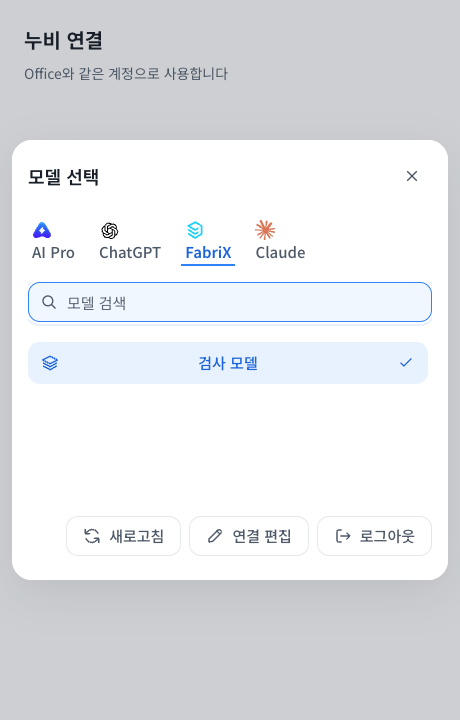
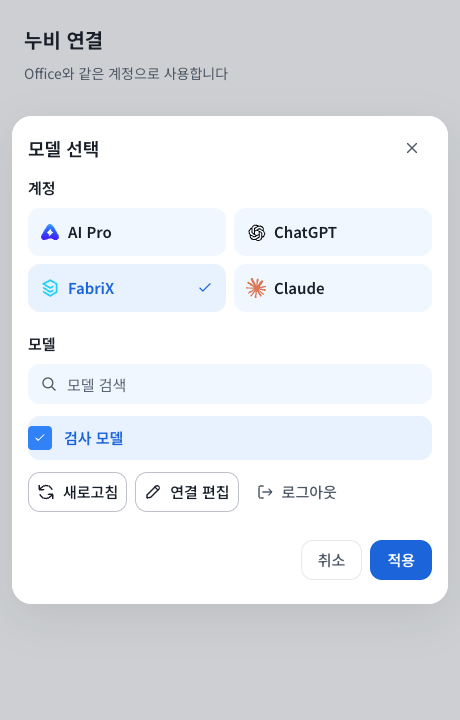
Unify model selection with Nubi workflow forms and fix Windows packaging

diff --git a/packages/office-x/ui/ModelForm.jsx b/packages/office-x/ui/ModelForm.jsx
@@ -1,0 +1,41 @@
+import React,{useEffect,useId,useRef,useState} from 'react';
+import {CxButton,CxInput,CxNotice,DetailPanel,ActionButton,Icon,SearchInput} from '@e2e/cx-design-system';
+import {ProviderIcon} from '../vendor/nubi/extensions/aipro-chat/src/ChatControls.jsx';
+import {ERROR_TEXT} from '../vendor/nubi/extensions/aipro-chat/core.js';
+import './model-form.css';
+
+// Use the Workspace question-form tokens and deferred single-choice pattern.
+// Browsing a provider or model never changes the active conversation model.
+export function ModelForm({data,providerLabels,disabled,loading,onSelect,onRefresh,onLogin,onLogout,onCancelLogin,onClose}) {
+ const [provider,setProvider]=useState(data.activeProvider),[choice,setChoice]=useState(''),[query,setQuery]=useState(''),[saving,setSaving]=useState(false),[error,setError]=useState('');
+ const id=useId(),rows=useRef(null),request=useRef(false),refresh=useRef(onRefresh),refreshed=useRef(null);refresh.current=onRefresh;
+ const connection=data.connections?.[provider]||{},connected=connection.present&&!connection.expired&&!connection.rejected;
+ const current=provider===data.activeProvider,pending=data.pending?.provider===provider;
+ const catalog=data.catalogs?.[provider]||(current?data.catalog:null),models=catalog?.models||[];
+ const selected=choice||data.selectedModels?.[provider]||(current?data.settings.modelId:'');
+ const valid=connected&&models.some(model=>model.name===selected),blocked=saving||disabled||!!data.pending;
+ const visible=models.filter(model=>`${model.displayName} ${model.name}`.toLocaleLowerCase().includes(query.trim().toLocaleLowerCase()));
+ useEffect(()=>{if(provider!=='aipro'||!connected||blocked)return;const key=`${provider}:${connection.receivedAt}`;if(refreshed.current===key)return;refreshed.current=key;Promise.resolve(refresh.current?.({provider,silent:true})).catch(()=>{});},[provider,connected,connection.receivedAt,blocked]);
+ async function perform(work){if(request.current)return;request.current=true;setSaving(true);setError('');try{return await work();}catch(cause){setError(ERROR_TEXT[cause?.message]||'변경하지 못했습니다. 연결을 확인하고 다시 시도해주세요.');return false;}finally{request.current=false;setSaving(false);}}
+ function browse(next){if(blocked)return;setProvider(next);setChoice('');setQuery('');setError('');}
+ function keyboard(event){if(!['ArrowDown','ArrowUp','ArrowRight','ArrowLeft','Home','End'].includes(event.key))return;const group=event.currentTarget,buttons=[...group.querySelectorAll('[role="radio"]:not(:disabled)')],index=buttons.indexOf(document.activeElement);if(index<0||!buttons.length)return;event.preventDefault();const next=event.key==='Home'?0:event.key==='End'?buttons.length-1:(index+(['ArrowDown','ArrowRight'].includes(event.key)?1:-1)+buttons.length)%buttons.length;buttons[next].focus();buttons[next].click();}
+ const problem=error||(!pending&&data.report?.provider===provider&&data.report.error!=='login_closed'?ERROR_TEXT[data.report.error]:'')||catalog?.errorMessage;
+ const footer=<><CxButton disabled={saving} onClick={onClose}>취소</CxButton><CxButton variant="primary" busy={saving} disabled={blocked||!valid} onClick={()=>perform(async()=>{if(await onSelect(selected,provider))onClose();else setError('모델을 적용하지 못했습니다. 다시 시도해주세요.');})}>적용</CxButton></>;
+ return <DetailPanel title="모델 선택" className="deck-dialog nubi-decision-dialog nubi-model-form" variant="modal" hideHelp busy={saving} initialFocus='[role="radio"][aria-checked="true"]' onClose={onClose} footer={footer}>
+  <div className="nubi-question-form model-form-fields">
+   {problem&&<CxNotice tone="danger">{problem}</CxNotice>}
+   <fieldset className="model-form-field"><legend>계정</legend><div className="model-form-providers" role="radiogroup" aria-label="모델 제공자" onKeyDown={keyboard}>
+    {Object.entries(providerLabels).map(([key,label])=><CxButton key={key} className="model-form-provider" role="radio" aria-label={label} aria-checked={provider===key} tabIndex={provider===key?0:-1} disabled={blocked} onClick={()=>browse(key)}><ProviderIcon provider={key}/><strong>{label}</strong><Icon name={provider===key?'check':'chevronRight'} size={16}/></CxButton>)}
+   </div></fieldset>
+   <fieldset className="model-form-field"><legend>모델</legend>
+    {pending?<div className="model-form-status" role="status"><span className="status-spinner" aria-hidden="true"/>{data.pending.phase==='exchanging'?'인증 확인 중':'로그인 대기 중'}<CxButton onClick={()=>Promise.resolve(onCancelLogin()).catch(()=>{})}>로그인 취소</CxButton></div>:!connected?<div className="model-form-status"><span>{connection.expired||connection.rejected?'다시 연결해주세요.':`${providerLabels[provider]} 계정을 연결하세요.`}</span><ActionButton action="login" label="연결" disabled={blocked} onClick={()=>perform(()=>onLogin(provider))}/></div>:<>
+     <SearchInput><CxInput id={`${id}-search`} aria-label="모델 검색" placeholder="모델 검색" value={query} onChange={e=>setQuery(e.target.value)} onKeyDown={e=>{if(e.key==='ArrowDown'){e.preventDefault();rows.current?.querySelector('[role="radio"]')?.focus();}}}/></SearchInput>
+     <div className="question-card question-card--compact model-form-models"><div className="question-options" role="radiogroup" aria-label="사용 가능한 모델" ref={rows} onKeyDown={keyboard}>
+      {visible.map((model,index)=><CxButton key={model.name} className="question-option model-form-option" role="radio" aria-label={model.displayName} aria-checked={model.name===selected} tabIndex={model.name===selected||(!visible.some(m=>m.name===selected)&&index===0)?0:-1} disabled={blocked} title={model.name} onClick={()=>setChoice(model.name)}><span className="question-option-index" aria-hidden="true">{model.name===selected?<Icon name="check" size={14}/>:index+1}</span><span className="question-option-copy"><strong>{model.displayName}</strong>{model.contextLength>0&&<span>문맥 {Math.round(model.contextLength/1024).toLocaleString()}K</span>}</span></CxButton>)}
+     </div>{!visible.length&&<p className="model-form-empty" role="status">{loading?'모델 불러오는 중':query.trim()?'검색 결과가 없습니다.':'목록을 다시 불러오세요.'}</p>}</div>
+     <div className="model-form-account-actions"><ActionButton action="refresh" iconOnly={false} label="새로고침" aria-label="모델 목록 새로고침" busy={loading} disabled={blocked||loading} onClick={()=>perform(()=>onRefresh({provider}))}/>{provider==='fabrix'&&<ActionButton action="edit" iconOnly={false} label="연결 편집" disabled={blocked} onClick={()=>perform(()=>onLogin(provider))}/>}<ActionButton action="logout" iconOnly={false} label={provider==='claude'?'연결 해제':'로그아웃'} disabled={blocked} onClick={()=>perform(()=>onLogout(provider))}/></div>
+    </>}
+   </fieldset>
+  </div>
+ </DetailPanel>;
+}

diff --git a/packages/office-x/companion/src/connection.jsx b/packages/office-x/companion/src/connection.jsx
@@ -2,8 +2,9 @@ import React,{useState,useEffect} from 'react';
 import {createRoot} from 'react-dom/client';
 import {CxButton,CxNotice,DetailPanel,CxInput} from '@e2e/cx-design-system';
 import {NubiLogin} from '../../vendor/nubi/extensions/aipro-chat/src/NubiSurfaces.jsx';
-import {ModelSelection,ModelPicker} from '../../vendor/nubi/extensions/aipro-chat/src/ChatControls.jsx';
+import {ModelPicker} from '../../vendor/nubi/extensions/aipro-chat/src/ChatControls.jsx';
 import {ReasoningPicker} from '../../vendor/nubi/packages/nubi-desktop/ui/ReasoningPicker.jsx';
+import {ModelForm} from '../../ui/ModelForm.jsx';
 import {Services} from '../../ui/Services.jsx';
 import {labels,modelData} from '../../ui/provider-view.js';
 import '@e2e/cx-design-system/styles.css';
@@ -19,11 +20,11 @@ function Connection(){const [state,setState]=useState({providers:[],initializing
  async function action(method,value){setError('');if(method!=='cancelLogin')setBusy(true);try{const result=await window.nubiOffice.command(method,value);setState(result);return result;}catch{setError('연결을 확인해주세요. Claude는 로그인한 Claude Code가 필요합니다.');throw Error('connection_failed');}finally{setBusy(false);}}
  const login=p=>p==='fabrix'?setFabrix(true):action('login',p).catch(()=>{});
  return <main className="desktop-shell nubi-workbench"><section className="nubi-task connection-content"><header><strong>누비 연결</strong><span>Office와 같은 계정으로 사용합니다</span></header>{error&&<CxNotice tone="danger">{error}</CxNotice>}
- {state.connected?<section className="connected"><h1>{labels[state.provider]} 연결됨</h1><ModelPicker data={data} providerLabels={labels} onOpen={()=>setModels(true)} onRefresh={()=>action('refreshModels').catch(()=>{})} disabled={busy}/>{state.reasoningOptions?.length>0&&<ReasoningPicker provider={state} disabled={busy} api={async(_,{input})=>({result:await action('reasoning',input)})}/>}<CxButton onClick={()=>setModels(true)}>계정과 모델 변경</CxButton></section>:<NubiLogin providerLabels={labels} intro={{title:'사용할 모델을 연결하세요',description:'문서를 읽고 만들고 다듬습니다'}} pending={data.pending} checkingProvider={state.initializing?'aipro':null} onLogin={login} onCancel={()=>action('cancelLogin').catch(()=>{})}/>}
+ {state.connected?<section className="connected"><h1>{labels[state.provider]} 연결됨</h1><ModelPicker data={data} providerLabels={labels} onOpen={()=>setModels(true)} onRefresh={()=>action('refreshModels').catch(()=>{})} disabled={busy}/>{state.reasoningOptions?.length>0&&<ReasoningPicker provider={state} disabled={busy} api={async(_,{input})=>{if(input.expectedProvider!==state.provider||input.expectedModel!==state.model)throw Error('reasoning_changed');return {result:await action('reasoning',input.effort)};}}/>}<CxButton onClick={()=>setModels(true)}>계정과 모델 변경</CxButton></section>:<NubiLogin providerLabels={labels} intro={{title:'사용할 모델을 연결하세요',description:'문서를 읽고 만들고 다듬습니다'}} pending={data.pending} checkingProvider={state.initializing?'aipro':null} onLogin={login} onCancel={()=>action('cancelLogin').catch(()=>{})}/>}
  <CxButton onClick={()=>setServices(true)}>검색과 이미지 설정</CxButton><label className="preference"><input type="checkbox" checked={state.preferred!==false} onChange={e=>action('preferred',e.target.checked).catch(()=>{})}/>편집기에서 누비 연결 사용</label><p className="hint">끄면 GenOffice의 원본 서비스 설정을 사용합니다.</p>
  {services&&<Services state={state.services||{}} onClose={()=>setServices(false)} call={(method,input)=>action('services',{method,input})}/>}
  {fabrix&&<DetailPanel title="FabriX 연결" variant="modal" hideHelp onClose={()=>setFabrix(false)}><form onSubmit={async e=>{e.preventDefault();try{await action('connect',{provider:'fabrix',...values});setFabrix(false);}catch{}}}>{[['endpoint','서버 주소','url'],['clientKey','클라이언트 키','password'],['token','접속 토큰','password']].map(([key,label,type])=><label className="connection-field" key={key}>{label}<CxInput required type={type} autoComplete="off" value={values[key]} onChange={e=>setValues({...values,[key]:e.target.value})}/></label>)}<CxButton type="submit" variant="primary" busy={busy}>연결</CxButton></form></DetailPanel>}
- {models&&<ModelSelection data={data} providerLabels={labels} disabled={busy} showProviderNames showActionLabels onClose={()=>setModels(false)} onLogin={login} onCancelLogin={()=>action('cancelLogin')} onProviderSelect={id=>action('select',id)} onLogout={id=>action('disconnect',id)} onRefresh={()=>action('refreshModels')} onSelect={async(id,p)=>{try{await action('select',p);await action('model',id);return true;}catch{return false;}}}/>}
+ {models&&<ModelForm data={data} providerLabels={labels} disabled={busy} onClose={()=>setModels(false)} onLogin={login} onCancelLogin={()=>action('cancelLogin')} onLogout={id=>action('disconnect',id)} onRefresh={input=>action('refreshModels',input)} onSelect={async(id,p)=>{try{await action('select',p);await action('model',id);return true;}catch{return false;}}}/>}
  </section></main>;
 }
 createRoot(document.getElementById('root')).render(<Connection/>);

diff --git a/packages/office-x/ui/App.jsx b/packages/office-x/ui/App.jsx
@@ -4,7 +4,7 @@ import Markdown from 'react-markdown';
 import remarkGfm from 'remark-gfm';
 import {CxButton,ActionButton,Icon,DetailPanel,CxInput,CxNotice} from '@e2e/cx-design-system';
 import {NubiLogin,NubiComposerInput,NubiComposerBar} from '../vendor/nubi/extensions/aipro-chat/src/NubiSurfaces.jsx';
-import {ModelPicker,ModelSelection} from '../vendor/nubi/extensions/aipro-chat/src/ChatControls.jsx';
+import {ModelPicker} from '../vendor/nubi/extensions/aipro-chat/src/ChatControls.jsx';
 import {NubiLogo} from '../vendor/nubi/extensions/aipro-chat/src/AgentMark.jsx';
 import {ReasoningPicker} from '../vendor/nubi/packages/nubi-desktop/ui/ReasoningPicker.jsx';
 import {ResponseTime} from '../vendor/nubi/packages/nubi-desktop/ui/ResponseTime.jsx';
@@ -24,6 +24,7 @@ import '../vendor/nubi/packages/nubi-desktop/design/workspace-dialogs.css';
 import './office.css';
 import {officeApps} from './office-apps.js';
 import {useGreeting} from './useGreeting.js';
+import {ModelForm} from './ModelForm.jsx';
 import {Services} from './Services.jsx';
 import {outcome,inferDocumentTarget} from './run-outcome.js';
 const fresh=()=>({id:crypto.randomUUID(),title:'새 대화',messages:[]});
@@ -139,7 +140,7 @@ function App(){
     {dialog==='services'&&<Services state={services} call={(method,input)=>command(method,input,'services')} onClose={()=>setDialog(null)}/>}
     {dialog==='target'&&<DetailPanel title="어디에 만들까요?" variant="modal" hideHelp onClose={()=>{setDialog(null);setPendingRequest('');}}><p>현재 문서를 수정하거나 새 문서를 열어 작성합니다.</p><div className="target-choices"><CxButton onClick={()=>submit('current')}><strong>현재 문서</strong><span>지금 열린 문서에 적용</span></CxButton><CxButton onClick={()=>submit('new')}><strong>새 문서</strong><span>새 창에서 작성하고 Agent 이어가기</span></CxButton></div></DetailPanel>}
     {dialog==='checkpoints'&&<DetailPanel title="문서 복원" variant="modal" hideHelp onClose={()=>setDialog(null)}><p>전체 스냅샷을 새 창에 복원합니다. 현재 문서는 유지됩니다.</p>{checkpoints.length?checkpoints.map(c=><CxButton className="history-row" key={c.id} onClick={()=>{setDialog(null);started.current=performance.now();setBusy(true);setConversations(rows=>rows.map(row=>row.id===active.id?{...row,messages:[...row.messages,{role:'user',text:'문서 복원: '+c.label},{role:'assistant',text:''}]}:row));send({type:'rollback',checkpointId:c.id,conversationId:active.id});}}>{c.label} / {c.document}</CxButton>):<p className="muted">아직 복원 지점이 없습니다.</p>}</DetailPanel>}
-    {dialog==='models'&&<ModelSelection data={data} loading={loading} disabled={busy} providerLabels={labels} showProviderNames showActionLabels selectWhileLoading onClose={()=>setDialog(null)} onLogin={login} onCancelLogin={()=>action('cancelLogin')} onProviderSelect={id=>action('select',id)} onLogout={id=>action('disconnect',id)} onRefresh={input=>refresh(input).catch(()=>{})} onSelect={async(id,p)=>{try{await action('select',p);await action('model',id);return true;}catch{return false;}}}/> }
+    {dialog==='models'&&<ModelForm data={data} loading={loading} disabled={busy} providerLabels={labels} onClose={()=>setDialog(null)} onLogin={login} onCancelLogin={()=>action('cancelLogin')} onLogout={id=>action('disconnect',id)} onRefresh={input=>refresh(input).catch(()=>{})} onSelect={async(id,p)=>{try{await action('select',p);await action('model',id);return true;}catch{return false;}}}/> }
     {dialog==='history'&&<DetailPanel title="대화 이력" variant="modal" hideHelp onClose={()=>setDialog(null)}><p className="muted">창을 닫으면 대화가 지워집니다.</p><CxButton onClick={newChat}>새 대화</CxButton>{conversations.map((c,i)=><CxButton className="history-row" key={c.id} aria-pressed={index===i} onClick={()=>{setIndex(i);setDialog(null);setDraft('');}}>{c.title}</CxButton>)}</DetailPanel>}
     {dialog==='fabrix'&&<Fabrix onClose={()=>setDialog(null)} onConnect={async values=>{await action('connect',{provider:'fabrix',...values});setDialog(null);}}/>}
   </div></main></div>;

diff --git a/packages/office-x/tests/companion-connection.browser.js b/packages/office-x/tests/companion-connection.browser.js
@@ -5,5 +5,7 @@ async(page)=>{
  await p.getByRole('button',{name:'FabriX',exact:true}).click();await p.getByLabel('서버 주소',{exact:true}).fill('https://fixture.example.test/v1');await p.getByLabel('클라이언트 키',{exact:true}).fill('fixture-key');await p.getByLabel('접속 토큰',{exact:true}).fill('fixture-token');await p.getByRole('button',{name:'연결',exact:true}).click();await p.getByText('FabriX 연결됨',{exact:true}).waitFor();
  await p.getByLabel('편집기에서 누비 연결 사용').uncheck();if(!(await p.evaluate(()=>calls.some(c=>c.method==='preferred'&&c.value===false))))throw Error('Preference was not sent');
  await p.getByRole('button',{name:'검색과 이미지 설정',exact:true}).click();await p.getByLabel('검색 서비스',{exact:true}).selectOption('tavily');await p.getByLabel('서버 주소',{exact:true}).fill('https://fixture.example.test/images');await p.getByLabel('이미지 모델',{exact:true}).fill('fixture-image');await p.getByLabel('분석 모델',{exact:true}).fill('fixture-vision');await p.getByRole('button',{name:'저장',exact:true}).click();if(!(await p.evaluate(()=>calls.some(c=>c.method==='services'&&c.value.method==='configure'&&c.value.input.media.config.imageModel==='fixture-image'))))throw Error('Services settings lost');
- await p.getByRole('button',{name:'계정과 모델 변경',exact:true}).click();await p.getByRole('dialog').waitFor();if(await p.evaluate(()=>document.documentElement.scrollWidth>innerWidth))throw Error('Connection UI overflows');await p.screenshot({path:'/Users/ganadi/Documents/office_x/verification/companion-connection.png'});if(errors.length)throw Error(errors.join('\n'));await ctx.close();return {passed:['four providers','FabriX connection form','original service preference','shared service settings','model picker','460px layout'],scope:'browser with mock account; no live credentials',pageErrors:errors};
+ await p.getByRole('button',{name:'계정과 모델 변경',exact:true}).click();await p.getByRole('dialog').waitFor();
+ await p.getByRole('radio',{name:'Claude',exact:true}).click();if(await p.evaluate(()=>calls.some(c=>c.method==='select')))throw Error('Browsing switched provider');await p.getByRole('button',{name:'취소',exact:true}).click();await p.getByRole('button',{name:'계정과 모델 변경',exact:true}).click();if(await p.getByRole('radio',{name:'FabriX',exact:true}).getAttribute('aria-checked')!=='true')throw Error('Cancel changed selection');await p.getByRole('radio',{name:'FabriX',exact:true}).press('ArrowRight');if(await p.getByRole('radio',{name:'Claude',exact:true}).getAttribute('aria-checked')!=='true')throw Error('Keyboard choice failed');await p.getByRole('radio',{name:'FabriX',exact:true}).click();
+ if(await p.evaluate(()=>document.documentElement.scrollWidth>innerWidth))throw Error('Connection UI overflows');await p.screenshot({path:'/Users/ganadi/Documents/office_x/verification/companion-connection.png'});await p.setViewportSize({width:320,height:640});if(await p.evaluate(()=>document.documentElement.scrollWidth>innerWidth))throw Error('320px model form overflows');await p.screenshot({path:'/Users/ganadi/Documents/office_x/verification/model-form-320.png'});if(errors.length)throw Error(errors.join('\n'));await ctx.close();return {passed:['four providers','FabriX connection form','original service preference','shared service settings','model picker','460px layout','provider browsing without apply','cancel preserves account','keyboard selection','320px model form'],scope:'browser with mock account; no live credentials',pageErrors:errors};
 }

diff --git a/packages/office-x/ui/model-form.css b/packages/office-x/ui/model-form.css
@@ -1,0 +1,22 @@
+:root:has(.desktop-shell) .cx-panel-backdrop>.nubi-model-form{width:min(480px,100%);max-height:calc(100dvh - 24px)}
+.nubi-model-form .model-form-fields{display:grid;gap:var(--cx-space-5,20px);min-width:0}
+.model-form-field{border:0;padding:0;margin:0;min-width:0;display:grid;gap:var(--cx-space-3,12px)}
+.model-form-field legend{padding:0 0 var(--cx-space-2,8px);font-weight:var(--nubi-weight-emphasis,600);color:var(--nubi-text-primary);font-size:var(--deck-type-body,15px)}
+.model-form-providers{display:grid;grid-template-columns:repeat(2,minmax(0,1fr));gap:var(--cx-space-2,8px)}
+.nubi-model-form .model-form-provider.cx-kit-button{height:auto;min-height:44px;display:flex;gap:var(--cx-space-2,8px);padding:var(--cx-space-3,12px);background:var(--nubi-surface-inset);border:0;color:var(--nubi-text-primary);text-align:left}
+.model-form-provider strong{flex:1;min-width:0;font-size:var(--deck-type-body,15px)}
+.nubi-model-form .model-form-provider[aria-checked=true]{background:var(--nubi-surface-selected);color:var(--nubi-text-action)}
+.nubi-model-form .model-form-provider>svg{flex:none}
+.nubi-model-form .model-form-provider:not([aria-checked=true])>svg:last-child{visibility:hidden}
+.model-form-models{max-height:min(280px,34dvh);overflow-y:auto;overscroll-behavior:contain;scrollbar-width:thin}
+.nubi-model-form .model-form-option.cx-kit-button{width:100%;text-align:left;height:auto;white-space:normal;min-height:44px}
+:root:has(.desktop-shell) .nubi-model-form .question-option-copy{display:grid;gap:2px;min-width:0}
+:root:has(.desktop-shell) .nubi-model-form .question-option-copy strong{white-space:normal;overflow-wrap:anywhere;font-size:var(--deck-type-body,15px);line-height:1.5}
+:root:has(.desktop-shell) .nubi-model-form .question-option-copy>span{display:block;font-size:var(--deck-type-caption,13px);color:var(--nubi-text-secondary)}
+.nubi-model-form .model-form-account-actions{display:flex;gap:var(--cx-space-2,8px);flex-wrap:wrap}
+.nubi-model-form .model-form-account-actions .cx-kit-button{font-size:var(--deck-type-caption,13px);min-height:32px;padding:6px 8px;background:transparent;color:var(--nubi-text-secondary)}
+.model-form-status{display:flex;align-items:center;justify-content:space-between;gap:12px;flex-wrap:wrap;color:var(--nubi-text-secondary);font-size:var(--deck-type-body,15px)}
+.model-form-empty{padding:12px 0;color:var(--nubi-text-secondary)}
+:root:has(.desktop-shell) .nubi-model-form>.cx-panel-footer{justify-content:flex-end}
+.nubi-model-form [role=radio]:focus-visible{outline:2px solid var(--nubi-text-action);outline-offset:2px}
+@media(max-width:380px){:root:has(.desktop-shell) .nubi-model-form .model-form-provider.cx-kit-button{padding:10px 8px;gap:6px}.nubi-model-form .model-form-provider strong{font-size:14px}}

diff --git a/packages/office-x/tests/ui.browser.js b/packages/office-x/tests/ui.browser.js
@@ -39,7 +39,9 @@ async (page) => {
   await page.getByRole('button',{name:'선택 범위 확인',exact:true}).click();
   await page.getByRole('button',{name:'모델 변경',exact:true}).click();
   await page.getByRole('textbox',{name:'모델 검색',exact:true}).fill('Sol');
-  await page.getByRole('button',{name:'Sol 테스트 모델',exact:true}).click();
+  await page.getByRole('radio',{name:'Sol 테스트 모델',exact:true}).click();
+  if(await page.evaluate(()=>officeFixture.sent.some(m=>m.method==='model')))throw Error('model was applied before confirmation');
+  await page.getByRole('button',{name:'적용',exact:true}).click();
   await page.getByRole('textbox',{name:'모델 검색',exact:true}).waitFor({state:'detached'});
   await page.getByRole('textbox',{name:'메시지',exact:true}).fill('수량과 단가를 곱해서 금액 열을 채워줘.');
   await page.waitForFunction(()=>!document.querySelector('[aria-label=보내기]').disabled);
@@ -63,9 +65,10 @@ async (page) => {
   await page.getByRole('button',{name:'수량과 단가를 곱해서 금액 열을 채워줘.',exact:true}).click();
   await page.getByText('수식 검증 완료',{exact:true}).waitFor();
   await page.getByRole('button',{name:'연결 설정',exact:true}).click();
-  await page.getByRole('tab',{name:'Claude',exact:true}).click();
+  await page.getByRole('radio',{name:'Claude',exact:true}).click();
   await page.getByRole('button',{name:'연결',exact:true}).click();
-  await page.getByRole('button',{name:'Opus 테스트 모델',exact:true}).click();
+  await page.getByRole('radio',{name:'Opus 테스트 모델',exact:true}).click();
+  await page.getByRole('button',{name:'적용',exact:true}).click();
   await page.getByRole('textbox',{name:'모델 검색',exact:true}).waitFor({state:'detached'});
   await page.screenshot({path:'/Users/ganadi/Documents/office_x/verification/readability-chat.png'});
   await page.getByRole('button',{name:'추론 정도',exact:true}).click();

diff --git a/packages/office-x/tests/model-form-provider.test.ts b/packages/office-x/tests/model-form-provider.test.ts
@@ -1,0 +1,18 @@
+import {describe,it,expect,vi} from 'vitest';
+// @ts-expect-error shared provider adapter uses JavaScript
+import {officeProviders} from '../runtime-src/nubi-providers.mjs';
+
+describe('staged model form catalog refresh',()=>{
+ it('refreshes the browsed account without changing the active provider',async()=>{
+  const persist=vi.fn(),refresh=vi.fn(),connect=vi.fn();
+  const providers=officeProviders(persist,{
+   createBase:()=>({status:()=>({provider:'aipro',providers:[]}),catalogs:()=>[],refreshModels:refresh,select:vi.fn()}),
+   createClaude:()=>({status:()=>({provider:'claude',connected:true,models:[],model:'sonnet'}),connect})
+  });
+  await providers.refreshModels({provider:'claude'});
+  expect(connect).toHaveBeenCalledOnce();expect(providers.status().provider).toBe('aipro');expect(persist).not.toHaveBeenCalled();
+  await providers.select('claude');persist.mockClear();connect.mockClear();
+  await providers.refreshModels({provider:'aipro'});
+  expect(refresh).toHaveBeenCalledWith({provider:'aipro'});expect(connect).not.toHaveBeenCalled();expect(providers.status().provider).toBe('claude');expect(persist).not.toHaveBeenCalled();
+ });
+});

diff --git a/packages/office-x/vitest.config.ts b/packages/office-x/vitest.config.ts
@@ -1,2 +1,4 @@
 import { defineConfig } from 'vitest/config';
-export default defineConfig({ test: { include: ['tests/**/*.test.ts'], environment: 'node' } });
+import {fileURLToPath} from 'node:url';
+// Match the production bundle's transport-only Nubi adapter.
+export default defineConfig({resolve:{alias:[{find:/.*\/agent-runtime\.js$/,replacement:fileURLToPath(new URL('./runtime-src/nubi-wire.mjs',import.meta.url))}]},test: { include: ['tests/**/*.test.ts'], environment: 'node' } });
